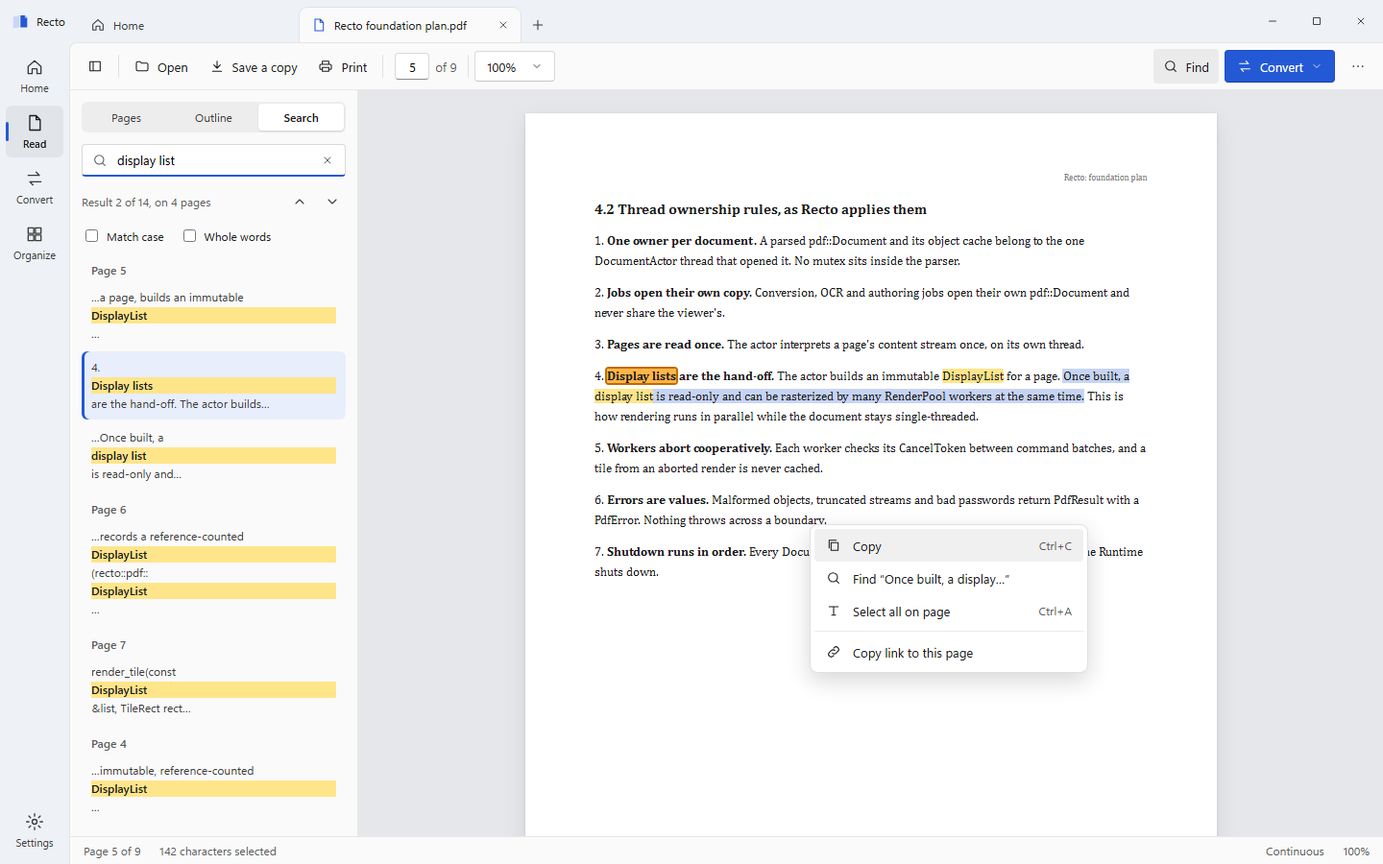
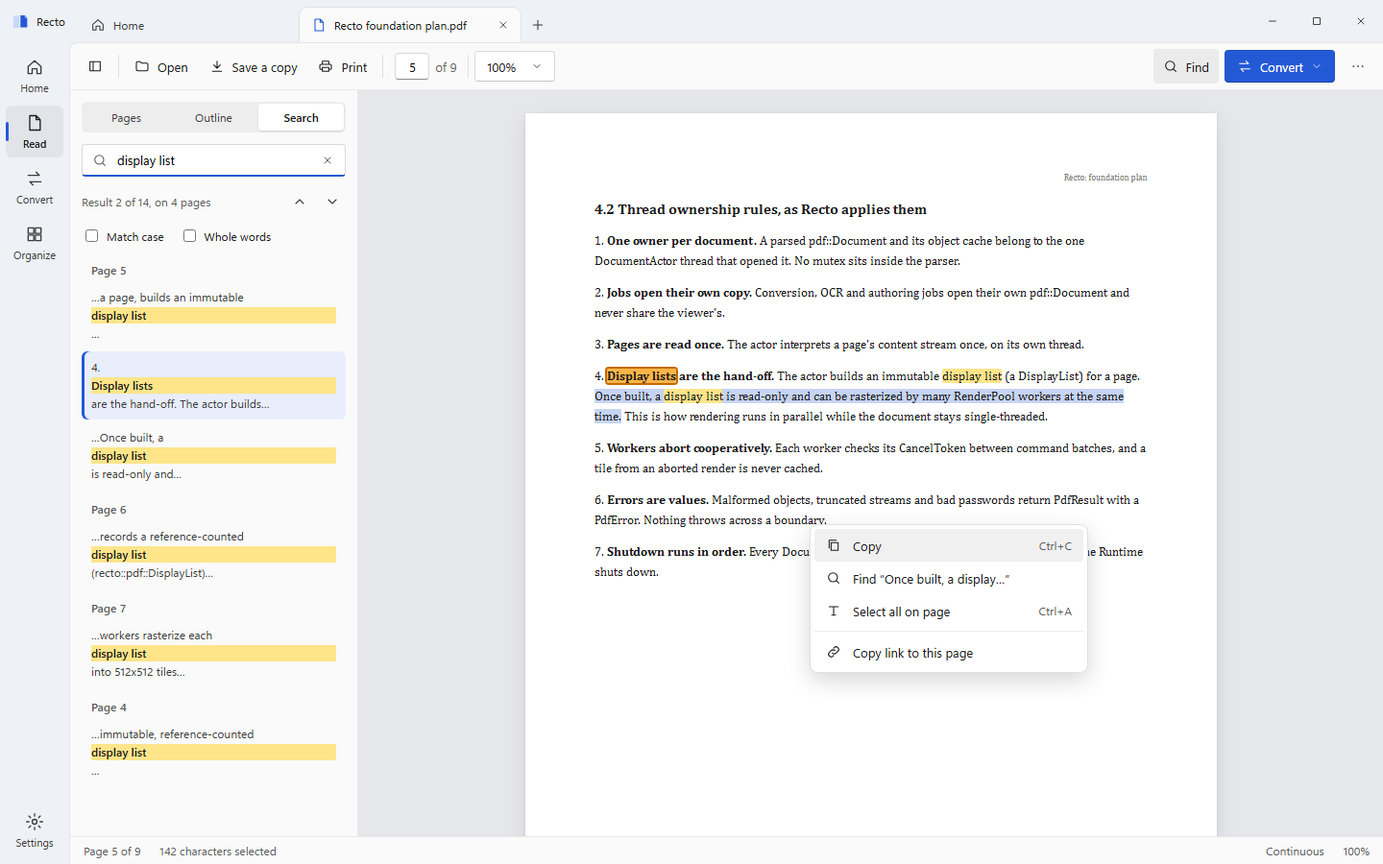
design: About boards state the GPL by name; search highlights match the query
D06 T05 §25 review round 4.

Changed region(s): [[0.0625, 0.6222, 0.25, 0.9333], [0.4062, 0.4044, 0.8125, 0.4978], [0.0625, 0.3422, 0.0938, 0.3733]]

diff --git a/design/mockups/source/C-Search.dc.html b/design/mockups/source/C-Search.dc.html
@@ -52,7 +52,7 @@ a{color:#4A3FD0}a:hover{color:#3529A8}
       <p style="margin:0">1. <b>One owner per document.</b> A parsed pdf::Document and its object cache belong to the one DocumentActor thread that opened it. No mutex sits inside the parser.</p>
       <p style="margin:0">2. <b>Jobs open their own copy.</b> Conversion, OCR and authoring jobs open their own pdf::Document and never share the viewer's.</p>
       <p style="margin:0">3. <b>Pages are read once.</b> The actor interprets a page's content stream once, on its own thread.</p>
-      <p style="margin:0">4. <b><span class="cur">Display lists</span> are the hand-off.</b> The actor builds an immutable <span class="hit">DisplayList</span> for a page. <span class="selx">Once built, a <span class="hit">display list</span> is read-only and can be rasterized by many RenderPool workers at the same time.</span> This is how rendering runs in parallel while the document stays single-threaded.</p>
+      <p style="margin:0">4. <b><span class="cur">Display lists</span> are the hand-off.</b> The actor builds an immutable <span class="hit">display list</span> (a DisplayList) for a page. <span class="selx">Once built, a <span class="hit">display list</span> is read-only and can be rasterized by many RenderPool workers at the same time.</span> This is how rendering runs in parallel while the document stays single-threaded.</p>
       <p style="margin:0">5. <b>Workers abort cooperatively.</b> Each worker checks its CancelToken between command batches, and a tile from an aborted render is never cached.</p>
       <p style="margin:0">6. <b>Errors are values.</b> Malformed objects, truncated streams and bad passwords return PdfResult with a PdfError. Nothing throws across a boundary.</p>
     </article>
@@ -72,12 +72,12 @@ a{color:#4A3FD0}a:hover{color:#3529A8}
       </div>
       <div style="display:flex;gap:6px;padding:8px 14px;border-bottom:1px solid #EEEDF6"><button class="sb" aria-label="Match case" style="width:auto;padding:0 10px;border:1px solid #E4E2EF">Aa</button><button class="sb" aria-label="Whole words" style="width:auto;padding:0 10px;border:1px solid #E4E2EF">Whole word</button><div style="flex-grow:1"></div><span class="cap" style="align-self:center">4 pages</span></div>
       <div style="padding:6px;display:flex;flex-direction:column;gap:1px">
-        <button class="res"><em>p. 4</em><span>…immutable, reference-counted <b>DisplayList</b>…</span></button>
-        <button class="res"><em>p. 5</em><span>…for a page, builds an immutable <b>DisplayList</b>…</span></button>
+        <button class="res"><em>p. 4</em><span>…immutable, reference-counted <b>display list</b>…</span></button>
+        <button class="res"><em>p. 5</em><span>…for a page, builds an immutable <b>display list</b>…</span></button>
         <button class="res" style="background:#EFEDFF;color:#17152B"><em style="color:#4A3FD0;font-weight:600">p. 5</em><span>4. <b>Display lists</b> are the hand-off. The actor builds…</span></button>
         <button class="res"><em>p. 5</em><span>…Once built, a <b>display list</b> is read-only…</span></button>
-        <button class="res"><em>p. 6</em><span>…records a reference-counted <b>DisplayList</b> (recto::pdf::<b>DisplayList</b>…</span></button>
-        <button class="res"><em>p. 7</em><span>render_tile(const <b>DisplayList</b> &amp;list, TileRect rect…</span></button>
+        <button class="res"><em>p. 6</em><span>…records a reference-counted <b>display list</b> (recto::pdf::DisplayList)…</span></button>
+        <button class="res"><em>p. 7</em><span>…workers rasterize each <b>display list</b> into 512x512 tiles…</span></button>
         <a href="C-Search.dc.html" style="font-size:13px;padding:8px 12px">Show all 14 results</a>
       </div>
     </section>

diff --git a/design/mockups/html/C-Search.html b/design/mockups/html/C-Search.html
@@ -48,7 +48,7 @@ a{color:#4A3FD0}a:hover{color:#3529A8}
       <p style="margin:0">1. <b>One owner per document.</b> A parsed pdf::Document and its object cache belong to the one DocumentActor thread that opened it. No mutex sits inside the parser.</p>
       <p style="margin:0">2. <b>Jobs open their own copy.</b> Conversion, OCR and authoring jobs open their own pdf::Document and never share the viewer's.</p>
       <p style="margin:0">3. <b>Pages are read once.</b> The actor interprets a page's content stream once, on its own thread.</p>
-      <p style="margin:0">4. <b><span class="cur">Display lists</span> are the hand-off.</b> The actor builds an immutable <span class="hit">DisplayList</span> for a page. <span class="selx">Once built, a <span class="hit">display list</span> is read-only and can be rasterized by many RenderPool workers at the same time.</span> This is how rendering runs in parallel while the document stays single-threaded.</p>
+      <p style="margin:0">4. <b><span class="cur">Display lists</span> are the hand-off.</b> The actor builds an immutable <span class="hit">display list</span> (a DisplayList) for a page. <span class="selx">Once built, a <span class="hit">display list</span> is read-only and can be rasterized by many RenderPool workers at the same time.</span> This is how rendering runs in parallel while the document stays single-threaded.</p>
       <p style="margin:0">5. <b>Workers abort cooperatively.</b> Each worker checks its CancelToken between command batches, and a tile from an aborted render is never cached.</p>
       <p style="margin:0">6. <b>Errors are values.</b> Malformed objects, truncated streams and bad passwords return PdfResult with a PdfError. Nothing throws across a boundary.</p>
     </article>
@@ -68,12 +68,12 @@ a{color:#4A3FD0}a:hover{color:#3529A8}
       </div>
       <div style="display:flex;gap:6px;padding:8px 14px;border-bottom:1px solid #EEEDF6"><button class="sb" aria-label="Match case" style="width:auto;padding:0 10px;border:1px solid #E4E2EF">Aa</button><button class="sb" aria-label="Whole words" style="width:auto;padding:0 10px;border:1px solid #E4E2EF">Whole word</button><div style="flex-grow:1"></div><span class="cap" style="align-self:center">4 pages</span></div>
       <div style="padding:6px;display:flex;flex-direction:column;gap:1px">
-        <button class="res"><em>p. 4</em><span>…immutable, reference-counted <b>DisplayList</b>…</span></button>
-        <button class="res"><em>p. 5</em><span>…for a page, builds an immutable <b>DisplayList</b>…</span></button>
+        <button class="res"><em>p. 4</em><span>…immutable, reference-counted <b>display list</b>…</span></button>
+        <button class="res"><em>p. 5</em><span>…for a page, builds an immutable <b>display list</b>…</span></button>
         <button class="res" style="background:#EFEDFF;color:#17152B"><em style="color:#4A3FD0;font-weight:600">p. 5</em><span>4. <b>Display lists</b> are the hand-off. The actor builds…</span></button>
         <button class="res"><em>p. 5</em><span>…Once built, a <b>display list</b> is read-only…</span></button>
-        <button class="res"><em>p. 6</em><span>…records a reference-counted <b>DisplayList</b> (recto::pdf::<b>DisplayList</b>…</span></button>
-        <button class="res"><em>p. 7</em><span>render_tile(const <b>DisplayList</b> &amp;list, TileRect rect…</span></button>
+        <button class="res"><em>p. 6</em><span>…records a reference-counted <b>display list</b> (recto::pdf::DisplayList)…</span></button>
+        <button class="res"><em>p. 7</em><span>…workers rasterize each <b>display list</b> into 512x512 tiles…</span></button>
         <a href="C-Search.html" style="font-size:13px;padding:8px 12px">Show all 14 results</a>
       </div>
     </section>

diff --git a/design/mockups/html/A-Search.html b/design/mockups/html/A-Search.html
@@ -89,15 +89,15 @@ a{color:#2459D6}a:hover{color:#1A47B0}
           </div>
           <div style="display:flex;flex-direction:column;gap:2px;overflow:hidden">
             <div class="cap" style="font-weight:600;padding:6px 10px 2px">Page 5</div>
-            <button class="res">…a page, builds an immutable <b>DisplayList</b>…</button>
+            <button class="res">…a page, builds an immutable <b>display list</b>…</button>
             <button class="res" style="background:#E8EEFC;box-shadow:inset 3px 0 0 #2459D6">4. <b>Display lists</b> are the hand-off. The actor builds…</button>
             <button class="res">…Once built, a <b>display list</b> is read-only and…</button>
             <div class="cap" style="font-weight:600;padding:10px 10px 2px">Page 6</div>
-            <button class="res">…records a reference-counted <b>DisplayList</b> (recto::pdf::<b>DisplayList</b>…</button>
+            <button class="res">…records a reference-counted <b>display list</b> (recto::pdf::DisplayList)…</button>
             <div class="cap" style="font-weight:600;padding:10px 10px 2px">Page 7</div>
-            <button class="res">render_tile(const <b>DisplayList</b> &amp;list, TileRect rect…</button>
+            <button class="res">…workers rasterize each <b>display list</b> into 512x512 tiles…</button>
             <div class="cap" style="font-weight:600;padding:10px 10px 2px">Page 4</div>
-            <button class="res">…immutable, reference-counted <b>DisplayList</b>…</button>
+            <button class="res">…immutable, reference-counted <b>display list</b>…</button>
           </div>
         </aside>
         <div style="flex-grow:1;min-width:0;background:#E6E7EA;display:flex;justify-content:center;padding-top:24px;overflow:hidden;position:relative">
@@ -107,7 +107,7 @@ a{color:#2459D6}a:hover{color:#1A47B0}
             <p style="margin:0">1. <b>One owner per document.</b> A parsed pdf::Document and its object cache belong to the one DocumentActor thread that opened it. No mutex sits inside the parser.</p>
             <p style="margin:0">2. <b>Jobs open their own copy.</b> Conversion, OCR and authoring jobs open their own pdf::Document and never share the viewer's.</p>
             <p style="margin:0">3. <b>Pages are read once.</b> The actor interprets a page's content stream once, on its own thread.</p>
-            <p style="margin:0">4. <b><span class="cur">Display lists</span> are the hand-off.</b> The actor builds an immutable <span class="hit">DisplayList</span> for a page. <span class="selx">Once built, a <span class="hit">display list</span> is read-only and can be rasterized by many RenderPool workers at the same time.</span> This is how rendering runs in parallel while the document stays single-threaded.</p>
+            <p style="margin:0">4. <b><span class="cur">Display lists</span> are the hand-off.</b> The actor builds an immutable <span class="hit">display list</span> (a DisplayList) for a page. <span class="selx">Once built, a <span class="hit">display list</span> is read-only and can be rasterized by many RenderPool workers at the same time.</span> This is how rendering runs in parallel while the document stays single-threaded.</p>
             <p style="margin:0">5. <b>Workers abort cooperatively.</b> Each worker checks its CancelToken between command batches, and a tile from an aborted render is never cached.</p>
             <p style="margin:0">6. <b>Errors are values.</b> Malformed objects, truncated streams and bad passwords return PdfResult with a PdfError. Nothing throws across a boundary.</p>
             <p style="margin:0">7. <b>Shutdown runs in order.</b> Every DocumentActor and RenderPool worker is joined before the Runtime shuts down.</p>

diff --git a/design/mockups/source/A-Search.dc.html b/design/mockups/source/A-Search.dc.html
@@ -93,15 +93,15 @@ a{color:#2459D6}a:hover{color:#1A47B0}
           </div>
           <div style="display:flex;flex-direction:column;gap:2px;overflow:hidden">
             <div class="cap" style="font-weight:600;padding:6px 10px 2px">Page 5</div>
-            <button class="res">…a page, builds an immutable <b>DisplayList</b>…</button>
+            <button class="res">…a page, builds an immutable <b>display list</b>…</button>
             <button class="res" style="background:#E8EEFC;box-shadow:inset 3px 0 0 #2459D6">4. <b>Display lists</b> are the hand-off. The actor builds…</button>
             <button class="res">…Once built, a <b>display list</b> is read-only and…</button>
             <div class="cap" style="font-weight:600;padding:10px 10px 2px">Page 6</div>
-            <button class="res">…records a reference-counted <b>DisplayList</b> (recto::pdf::<b>DisplayList</b>…</button>
+            <button class="res">…records a reference-counted <b>display list</b> (recto::pdf::DisplayList)…</button>
             <div class="cap" style="font-weight:600;padding:10px 10px 2px">Page 7</div>
-            <button class="res">render_tile(const <b>DisplayList</b> &amp;list, TileRect rect…</button>
+            <button class="res">…workers rasterize each <b>display list</b> into 512x512 tiles…</button>
             <div class="cap" style="font-weight:600;padding:10px 10px 2px">Page 4</div>
-            <button class="res">…immutable, reference-counted <b>DisplayList</b>…</button>
+            <button class="res">…immutable, reference-counted <b>display list</b>…</button>
           </div>
         </aside>
         <div style="flex-grow:1;min-width:0;background:#E6E7EA;display:flex;justify-content:center;padding-top:24px;overflow:hidden;position:relative">
@@ -111,7 +111,7 @@ a{color:#2459D6}a:hover{color:#1A47B0}
             <p style="margin:0">1. <b>One owner per document.</b> A parsed pdf::Document and its object cache belong to the one DocumentActor thread that opened it. No mutex sits inside the parser.</p>
             <p style="margin:0">2. <b>Jobs open their own copy.</b> Conversion, OCR and authoring jobs open their own pdf::Document and never share the viewer's.</p>
             <p style="margin:0">3. <b>Pages are read once.</b> The actor interprets a page's content stream once, on its own thread.</p>
-            <p style="margin:0">4. <b><span class="cur">Display lists</span> are the hand-off.</b> The actor builds an immutable <span class="hit">DisplayList</span> for a page. <span class="selx">Once built, a <span class="hit">display list</span> is read-only and can be rasterized by many RenderPool workers at the same time.</span> This is how rendering runs in parallel while the document stays single-threaded.</p>
+            <p style="margin:0">4. <b><span class="cur">Display lists</span> are the hand-off.</b> The actor builds an immutable <span class="hit">display list</span> (a DisplayList) for a page. <span class="selx">Once built, a <span class="hit">display list</span> is read-only and can be rasterized by many RenderPool workers at the same time.</span> This is how rendering runs in parallel while the document stays single-threaded.</p>
             <p style="margin:0">5. <b>Workers abort cooperatively.</b> Each worker checks its CancelToken between command batches, and a tile from an aborted render is never cached.</p>
             <p style="margin:0">6. <b>Errors are values.</b> Malformed objects, truncated streams and bad passwords return PdfResult with a PdfError. Nothing throws across a boundary.</p>
             <p style="margin:0">7. <b>Shutdown runs in order.</b> Every DocumentActor and RenderPool worker is joined before the Runtime shuts down.</p>

diff --git a/design/mockups/html/B-Search.html b/design/mockups/html/B-Search.html
@@ -75,7 +75,7 @@ a{color:#F48A6E}a:hover{color:#F7A890}
           <p style="margin:0">1. <b>One owner per document.</b> A parsed pdf::Document and its object cache belong to the one DocumentActor thread that opened it. No mutex sits inside the parser.</p>
           <p style="margin:0">2. <b>Jobs open their own copy.</b> Conversion, OCR and authoring jobs open their own pdf::Document and never share the viewer's.</p>
           <p style="margin:0">3. <b>Pages are read once.</b> The actor interprets a page's content stream once, on its own thread.</p>
-          <p style="margin:0">4. <b><span class="cur">Display lists</span> are the hand-off.</b> The actor builds an immutable <span class="hit">DisplayList</span> for a page. <span class="selx">Once built, a <span class="hit">display list</span> is read-only and can be rasterized by many RenderPool workers at the same time.</span> This is how rendering runs in parallel while the document stays single-threaded.</p>
+          <p style="margin:0">4. <b><span class="cur">Display lists</span> are the hand-off.</b> The actor builds an immutable <span class="hit">display list</span> (a DisplayList) for a page. <span class="selx">Once built, a <span class="hit">display list</span> is read-only and can be rasterized by many RenderPool workers at the same time.</span> This is how rendering runs in parallel while the document stays single-threaded.</p>
           <p style="margin:0">5. <b>Workers abort cooperatively.</b> Each worker checks its CancelToken between command batches, and a tile from an aborted render is never cached.</p>
           <p style="margin:0">6. <b>Errors are values.</b> Malformed objects, truncated streams and bad passwords return PdfResult with a PdfError. Nothing throws across a boundary.</p>
         </article>
@@ -118,13 +118,13 @@ a{color:#F48A6E}a:hover{color:#F7A890}
       <div style="display:flex;align-items:center;gap:6px"><span class="cap" style="flex-grow:1;font-size:13px">2 of 14 results</span><button class="ib" aria-label="Previous result"><svg class="ic" viewBox="0 0 24 24" style="transform:rotate(-90deg)" aria-hidden="true"><path d="M9 6l6 6-6 6"></path></svg></button><button class="ib" aria-label="Next result"><svg class="ic" viewBox="0 0 24 24" style="transform:rotate(90deg)" aria-hidden="true"><path d="M9 6l6 6-6 6"></path></svg></button></div>
       <div style="display:flex;flex-direction:column;gap:2px">
         <div class="serif" style="font-size:15px;padding:4px 12px 0;color:#B8B2A8">Page 5</div>
-        <button class="res">…for a page, builds an immutable <b>DisplayList</b>…</button>
+        <button class="res">…for a page, builds an immutable <b>display list</b>…</button>
         <button class="res" style="background:#3A2620;box-shadow:inset 3px 0 0 #F0603C;color:#EDEAE4">4. <b>Display lists</b> are the hand-off. The actor builds…</button>
         <button class="res">…Once built, a <b>display list</b> is read-only…</button>
         <div class="serif" style="font-size:15px;padding:10px 12px 0;color:#B8B2A8">Page 6</div>
-        <button class="res">…records a reference-counted <b>DisplayList</b> (recto::pdf::<b>DisplayList</b>…</button>
+        <button class="res">…records a reference-counted <b>display list</b> (recto::pdf::DisplayList)…</button>
         <div class="serif" style="font-size:15px;padding:10px 12px 0;color:#B8B2A8">Page 7</div>
-        <button class="res">render_tile(const <b>DisplayList</b> &amp;list, TileRect rect…</button>
+        <button class="res">…workers rasterize each <b>display list</b> into 512x512 tiles…</button>
       </div>
     </aside>
   </div>

diff --git a/design/mockups/source/B-Search.dc.html b/design/mockups/source/B-Search.dc.html
@@ -79,7 +79,7 @@ a{color:#F48A6E}a:hover{color:#F7A890}
           <p style="margin:0">1. <b>One owner per document.</b> A parsed pdf::Document and its object cache belong to the one DocumentActor thread that opened it. No mutex sits inside the parser.</p>
           <p style="margin:0">2. <b>Jobs open their own copy.</b> Conversion, OCR and authoring jobs open their own pdf::Document and never share the viewer's.</p>
           <p style="margin:0">3. <b>Pages are read once.</b> The actor interprets a page's content stream once, on its own thread.</p>
-          <p style="margin:0">4. <b><span class="cur">Display lists</span> are the hand-off.</b> The actor builds an immutable <span class="hit">DisplayList</span> for a page. <span class="selx">Once built, a <span class="hit">display list</span> is read-only and can be rasterized by many RenderPool workers at the same time.</span> This is how rendering runs in parallel while the document stays single-threaded.</p>
+          <p style="margin:0">4. <b><span class="cur">Display lists</span> are the hand-off.</b> The actor builds an immutable <span class="hit">display list</span> (a DisplayList) for a page. <span class="selx">Once built, a <span class="hit">display list</span> is read-only and can be rasterized by many RenderPool workers at the same time.</span> This is how rendering runs in parallel while the document stays single-threaded.</p>
           <p style="margin:0">5. <b>Workers abort cooperatively.</b> Each worker checks its CancelToken between command batches, and a tile from an aborted render is never cached.</p>
           <p style="margin:0">6. <b>Errors are values.</b> Malformed objects, truncated streams and bad passwords return PdfResult with a PdfError. Nothing throws across a boundary.</p>
         </article>
@@ -106,13 +106,13 @@ a{color:#F48A6E}a:hover{color:#F7A890}
       <div style="display:flex;align-items:center;gap:6px"><span class="cap" style="flex-grow:1;font-size:13px">2 of 14 results</span><button class="ib" aria-label="Previous result"><svg class="ic" viewBox="0 0 24 24" style="transform:rotate(-90deg)" aria-hidden="true"><path d="{{i.cr}}"></path></svg></button><button class="ib" aria-label="Next result"><svg class="ic" viewBox="0 0 24 24" style="transform:rotate(90deg)" aria-hidden="true"><path d="{{i.cr}}"></path></svg></button></div>
       <div style="display:flex;flex-direction:column;gap:2px">
         <div class="serif" style="font-size:15px;padding:4px 12px 0;color:#B8B2A8">Page 5</div>
-        <button class="res">…for a page, builds an immutable <b>DisplayList</b>…</button>
+        <button class="res">…for a page, builds an immutable <b>display list</b>…</button>
         <button class="res" style="background:#3A2620;box-shadow:inset 3px 0 0 #F0603C;color:#EDEAE4">4. <b>Display lists</b> are the hand-off. The actor builds…</button>
         <button class="res">…Once built, a <b>display list</b> is read-only…</button>
         <div class="serif" style="font-size:15px;padding:10px 12px 0;color:#B8B2A8">Page 6</div>
-        <button class="res">…records a reference-counted <b>DisplayList</b> (recto::pdf::<b>DisplayList</b>…</button>
+        <button class="res">…records a reference-counted <b>display list</b> (recto::pdf::DisplayList)…</button>
         <div class="serif" style="font-size:15px;padding:10px 12px 0;color:#B8B2A8">Page 7</div>
-        <button class="res">render_tile(const <b>DisplayList</b> &amp;list, TileRect rect…</button>
+        <button class="res">…workers rasterize each <b>display list</b> into 512x512 tiles…</button>
       </div>
     </aside>
   </div>

diff --git a/design/mockups/html/B-About.html b/design/mockups/html/B-About.html
@@ -54,7 +54,7 @@ a{color:#F48A6E}a:hover{color:#F7A890}
         <h1 class="serif" style="margin:0;font-size:84px;font-weight:500;line-height:80px;letter-spacing:-1px">Recto</h1>
         <p class="serif" style="margin:0;font-size:22px;font-style:italic;color:#D3CFC7">the right-hand page</p>
         <div class="cap" style="font-size:13px">Version [X.Y.Z] · Windows App SDK 2.5.1 · recto-pdf [version] · ARM64</div>
-        <p style="margin:8px 0 0;font-size:15px;line-height:23px;color:#D3CFC7;max-width:520px">Recto is free software under the GNU Affero General Public License, version 3 or later. You're free to use it, study it, change it and share it. The full source code of this exact version is public.</p>
+        <p style="margin:8px 0 0;font-size:15px;line-height:23px;color:#D3CFC7;max-width:520px">Recto is free software under the GNU General Public License, version 3 or later. You're free to use it, study it, change it and share it. The full source code of this exact version is public.</p>
         <div style="display:flex;gap:10px;flex-wrap:wrap"><a class="btn p" href="https://github.com/"><svg class="ic" viewBox="0 0 24 24" aria-hidden="true"><path d="M8 7l-5 5 5 5M16 7l5 5-5 5"></path></svg>Source for v[X.Y.Z]</a><button class="btn">Read the license</button><button class="btn">Copy version info</button></div>
         <div style="display:flex;gap:22px;font-size:14px;margin-top:6px"><a href="https://github.com/">Report a problem</a><a href="https://github.com/">Contribute</a><a href="https://github.com/">Privacy</a></div>
       </div>

diff --git a/design/mockups/source/B-About.dc.html b/design/mockups/source/B-About.dc.html
@@ -58,7 +58,7 @@ a{color:#F48A6E}a:hover{color:#F7A890}
         <h1 class="serif" style="margin:0;font-size:84px;font-weight:500;line-height:80px;letter-spacing:-1px">Recto</h1>
         <p class="serif" style="margin:0;font-size:22px;font-style:italic;color:#D3CFC7">the right-hand page</p>
         <div class="cap" style="font-size:13px">Version [X.Y.Z] · Windows App SDK 2.5.1 · recto-pdf [version] · ARM64</div>
-        <p style="margin:8px 0 0;font-size:15px;line-height:23px;color:#D3CFC7;max-width:520px">Recto is free software under the GNU Affero General Public License, version 3 or later. You're free to use it, study it, change it and share it. The full source code of this exact version is public.</p>
+        <p style="margin:8px 0 0;font-size:15px;line-height:23px;color:#D3CFC7;max-width:520px">Recto is free software under the GNU General Public License, version 3 or later. You're free to use it, study it, change it and share it. The full source code of this exact version is public.</p>
         <div style="display:flex;gap:10px;flex-wrap:wrap"><a class="btn p" href="https://github.com/"><svg class="ic" viewBox="0 0 24 24" aria-hidden="true"><path d="{{i.code}}"></path></svg>Source for v[X.Y.Z]</a><button class="btn">Read the license</button><button class="btn">Copy version info</button></div>
         <div style="display:flex;gap:22px;font-size:14px;margin-top:6px"><a href="https://github.com/">Report a problem</a><a href="https://github.com/">Contribute</a><a href="https://github.com/">Privacy</a></div>
       </div>

diff --git a/design/mockups/html/C-About.html b/design/mockups/html/C-About.html
@@ -41,7 +41,7 @@ a{color:#4A3FD0}a:hover{color:#3529A8}
           <svg viewBox="0 0 64 64" width="84" height="84" role="img" aria-label="Recto icon"><rect x="2" y="2" width="60" height="60" rx="16" fill="#5B4FE0"></rect><path fill-rule="evenodd" fill="#FFFFFF" d="M18 14 H35 A11 11 0 0 1 35 36 H27 V50 H18 Z M27 22 V28 H34 A3 3 0 0 0 34 22 Z"></path><path d="M31 36 H41 L49 50 H39 Z" fill="#C9C4FF"></path></svg>
           <div><h1 class="disp" style="margin:0;font-size:44px;font-weight:600;letter-spacing:-1px;line-height:48px">Recto</h1><div class="cap" style="font-size:13px">Version [X.Y.Z] · x64</div></div>
         </div>
-        <p style="margin:0;font-size:15px;line-height:23px">A PDF viewer and converter for Windows. Free software under the GNU Affero General Public License, version 3 or later.</p>
+        <p style="margin:0;font-size:15px;line-height:23px">A PDF viewer and converter for Windows. Free software under the GNU General Public License, version 3 or later.</p>
         <div style="display:flex;flex-direction:column;gap:8px;padding:14px 16px;border-radius:12px;background:#F6F5FB;font-size:13px">
           <div style="display:flex;justify-content:space-between"><span class="cap" style="font-size:13px">Windows App SDK</span><span>2.4.0</span></div>
           <div style="display:flex;justify-content:space-between"><span class="cap" style="font-size:13px">recto-pdf</span><span>[version]</span></div>

diff --git a/design/mockups/source/C-About.dc.html b/design/mockups/source/C-About.dc.html
@@ -45,7 +45,7 @@ a{color:#4A3FD0}a:hover{color:#3529A8}
           <svg viewBox="0 0 64 64" width="84" height="84" role="img" aria-label="Recto icon"><rect x="2" y="2" width="60" height="60" rx="16" fill="#5B4FE0"></rect><path fill-rule="evenodd" fill="#FFFFFF" d="M18 14 H35 A11 11 0 0 1 35 36 H27 V50 H18 Z M27 22 V28 H34 A3 3 0 0 0 34 22 Z"></path><path d="M31 36 H41 L49 50 H39 Z" fill="#C9C4FF"></path></svg>
           <div><h1 class="disp" style="margin:0;font-size:44px;font-weight:600;letter-spacing:-1px;line-height:48px">Recto</h1><div class="cap" style="font-size:13px">Version [X.Y.Z] · x64</div></div>
         </div>
-        <p style="margin:0;font-size:15px;line-height:23px">A PDF viewer and converter for Windows. Free software under the GNU Affero General Public License, version 3 or later.</p>
+        <p style="margin:0;font-size:15px;line-height:23px">A PDF viewer and converter for Windows. Free software under the GNU General Public License, version 3 or later.</p>
         <div style="display:flex;flex-direction:column;gap:8px;padding:14px 16px;border-radius:12px;background:#F6F5FB;font-size:13px">
           <div style="display:flex;justify-content:space-between"><span class="cap" style="font-size:13px">Windows App SDK</span><span>2.4.0</span></div>
           <div style="display:flex;justify-content:space-between"><span class="cap" style="font-size:13px">recto-pdf</span><span>[version]</span></div>

diff --git a/design/mockups/html/A-About.html b/design/mockups/html/A-About.html
@@ -65,7 +65,7 @@ a{color:#2459D6}a:hover{color:#1A47B0}
         <div style="display:flex;flex-direction:column;gap:20px">
           <section class="card" aria-label="License">
             <div style="display:flex;align-items:center;gap:10px"><svg class="ic" viewBox="0 0 24 24" style="width:20px;height:20px;color:#2459D6" aria-hidden="true"><path d="M8 7l-5 5 5 5M16 7l5 5-5 5"></path></svg><h2 class="h" style="margin:0;font-size:17px">Free and open source</h2></div>
-            <p style="margin:0;font-size:14px;line-height:21px">Recto is free software under the GNU Affero General Public License, version 3 or later. You can study, change and share it. The exact source code of this version is public.</p>
+            <p style="margin:0;font-size:14px;line-height:21px">Recto is free software under the GNU General Public License, version 3 or later. You can study, change and share it. The exact source code of this version is public.</p>
             <div style="display:flex;gap:8px;flex-wrap:wrap"><a class="btn p" href="https://github.com/">View source for this version</a><button class="btn">Read the license</button></div>
             <span class="cap">github.com/[OWNER]/recto, tag v[X.Y.Z]</span>
           </section>

diff --git a/design/mockups/source/A-About.dc.html b/design/mockups/source/A-About.dc.html
@@ -69,7 +69,7 @@ a{color:#2459D6}a:hover{color:#1A47B0}
         <div style="display:flex;flex-direction:column;gap:20px">
           <section class="card" aria-label="License">
             <div style="display:flex;align-items:center;gap:10px"><svg class="ic" viewBox="0 0 24 24" style="width:20px;height:20px;color:#2459D6" aria-hidden="true"><path d="{{i.code}}"></path></svg><h2 class="h" style="margin:0;font-size:17px">Free and open source</h2></div>
-            <p style="margin:0;font-size:14px;line-height:21px">Recto is free software under the GNU Affero General Public License, version 3 or later. You can study, change and share it. The exact source code of this version is public.</p>
+            <p style="margin:0;font-size:14px;line-height:21px">Recto is free software under the GNU General Public License, version 3 or later. You can study, change and share it. The exact source code of this version is public.</p>
             <div style="display:flex;gap:8px;flex-wrap:wrap"><a class="btn p" href="https://github.com/">View source for this version</a><button class="btn">Read the license</button></div>
             <span class="cap">github.com/[OWNER]/recto, tag v[X.Y.Z]</span>
           </section>
